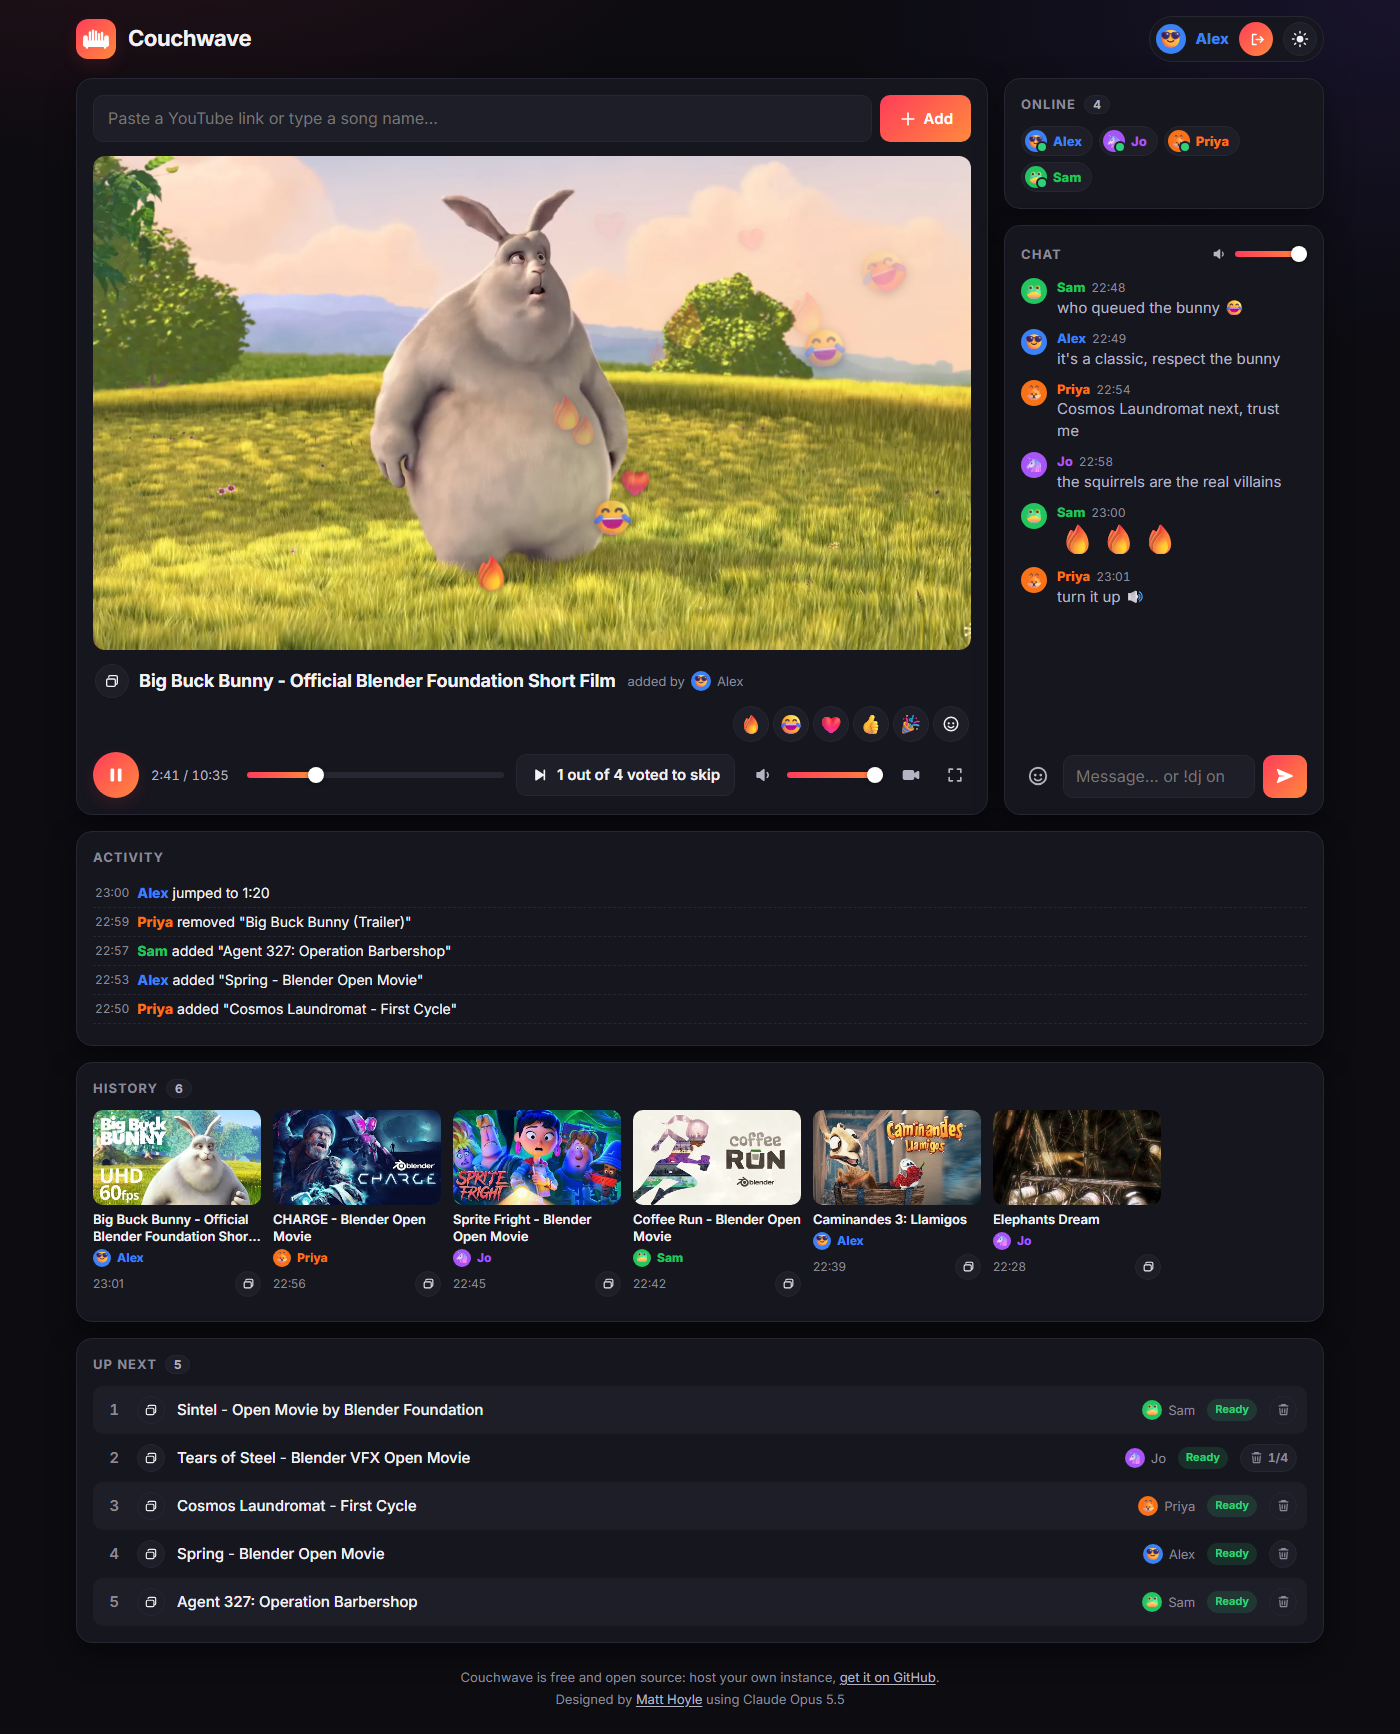
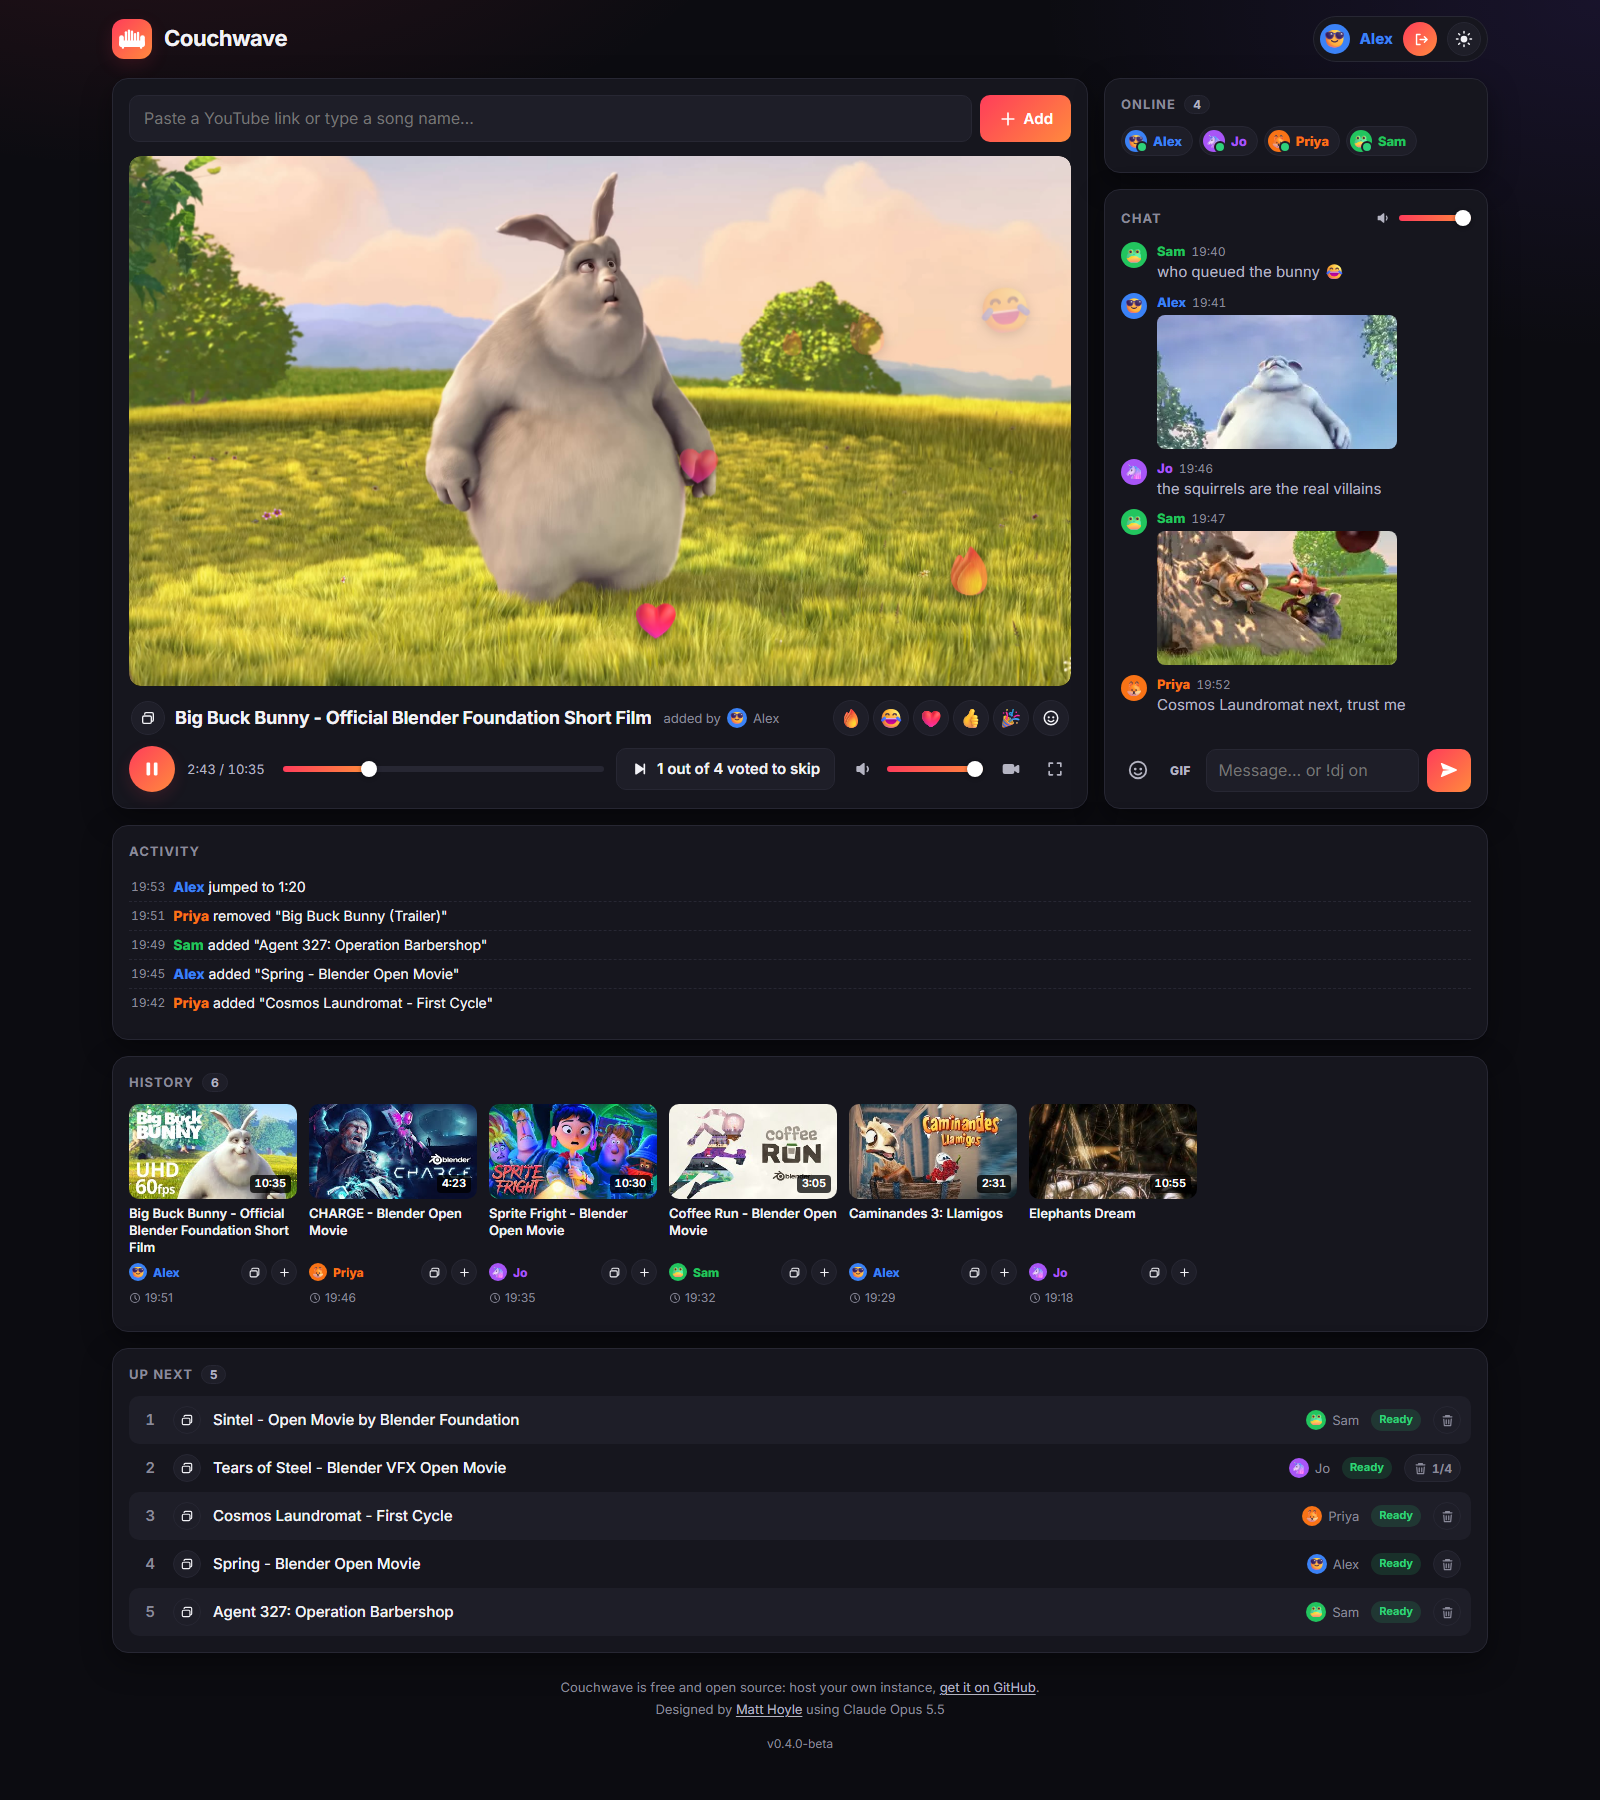
A bigger chat on wide screens, and a new screenshot with GIFs in the chat
- On screens wider than about 1330 px, the page grows up to 1760 px and the chat column from 320
  up to 480 px (full screen too); smaller screens are unchanged.
- docs/screenshot.png retaken at 1600 px: GIFs in the chat (cut from Big Buck Bunny, CC BY), song
  lengths in the history, the wider layout. README description updated.

Claude-Session: https://claude.ai/code/session_01CRYPpDUKJZFYMg4w94yGBK

diff --git a/public/css/style.css b/public/css/style.css
@@ -51,7 +51,7 @@ body {
   background-attachment: fixed;
 }
 [hidden] { display: none !important; }
-.wrap { max-width: 1280px; margin: 0 auto; padding: 16px; }
+.wrap { max-width: clamp(1280px, 88vw, 1760px); margin: 0 auto; padding: 16px; }
 .muted { color: var(--muted); }
 svg { width: 20px; height: 20px; fill: currentColor; flex: none; }
 ul { list-style: none; margin: 0; padding: 0; }
@@ -154,7 +154,7 @@ header { display: flex; flex-wrap: wrap; gap: 12px; align-items: center; justify
 @media (max-width: 560px) { .pop { right: auto; left: 0; max-width: calc(100vw - 32px); } }
 
 /* ---------- Layout ---------- */
-.layout { display: grid; grid-template-columns: minmax(0, 1fr) 320px; gap: 16px; }
+.layout { display: grid; grid-template-columns: minmax(0, 1fr) clamp(320px, 24vw, 480px); gap: 16px; }
 .layout > main { display: flex; flex-direction: column; }
 .layout > main > .card { flex: 1; }
 .rest { grid-column: 1 / -1; display: grid; grid-template-columns: minmax(0, 1fr); gap: 16px; }
@@ -298,7 +298,7 @@ aside { display: flex; flex-direction: column; min-height: 0; }
 body.fs .fsOnly { display: inline-grid !important; place-items: center; }
 body.fs header, body.fs .rest, body.fs #addForm, body.fs footer { display: none; }
 body.fs .wrap { max-width: none; height: 100vh; height: 100dvh; padding: 0; display: flex; flex-direction: column; }
-body.fs .layout { flex: 1; min-height: 0; grid-template-columns: minmax(0, 1fr) clamp(280px, 24vw, 360px); grid-template-rows: minmax(0, 1fr); gap: 0; }
+body.fs .layout { flex: 1; min-height: 0; grid-template-columns: minmax(0, 1fr) clamp(280px, 24vw, 480px); grid-template-rows: minmax(0, 1fr); gap: 0; }
 body.fs.chatHidden .layout { grid-template-columns: minmax(0, 1fr); }
 body.fs.chatHidden aside { display: none; }
 body.fs main, body.fs aside { min-height: 0; }

diff --git a/README.md b/README.md
@@ -13,7 +13,7 @@ Set it up once and leave it: Couchwave keeps yt-dlp up to date, retries stuck do
 disk, and tells you when there's a new version. Everyone has their own nickname and password, and password
 guessing is shut down. All it needs is Node.js, yt-dlp and ffmpeg: no database, no npm packages.
 
-![Couchwave in a browser: a video playing with emoji reactions floating over it, a skip vote in progress, the chat and online friends on the right, and below them the activity log, the history of songs played with thumbnails, and the queue](docs/screenshot.png)
+![Couchwave in a browser: a video playing with emoji reactions floating over it, a skip vote in progress, the chat with GIFs and online friends on the right, and below them the activity log, the history of songs played with their thumbnails and lengths, and the queue](docs/screenshot.png)
 
 <p align="center">
   <b><a href="docs/INSTALL.md">Getting started and setup guide</a></b>

diff --git a/CHANGELOG.md b/CHANGELOG.md
@@ -17,6 +17,12 @@ Changes to Couchwave, newest first. "Unreleased" is what's been added since the 
   Raspberry Pi), with Node.js, ffmpeg and yt-dlp inside and everything kept in one data folder. Each release
   has one from now on. See [docs/INSTALL.md](docs/INSTALL.md#docker).
 
+### Changed
+
+- **A bigger chat on wide screens**: on screens wider than about 1330 pixels, the page now uses more of the
+  width instead of stopping at 1280, and the chat grows with it (up to 480 pixels wide, from 320), as does the
+  video. Full screen gets the wider chat too. Smaller screens look the same.
+
 ## v0.4.0 beta (2026-11-22)
 
 Still a beta. Updating is now one command, installing is one line, and there are GIFs in the chat (with your
